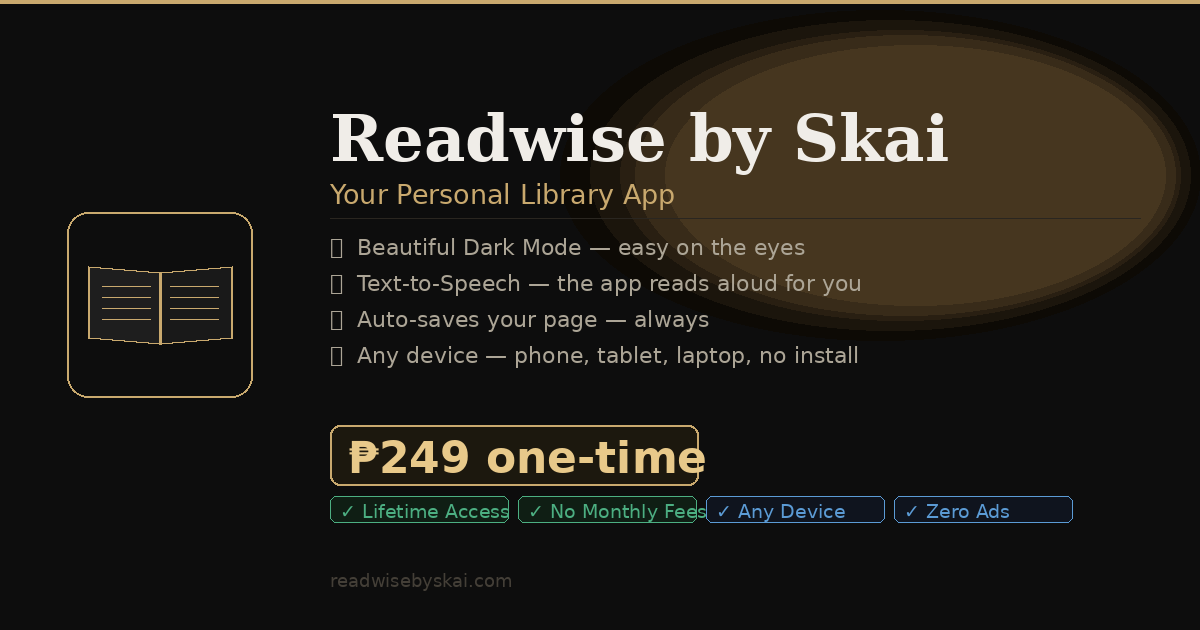
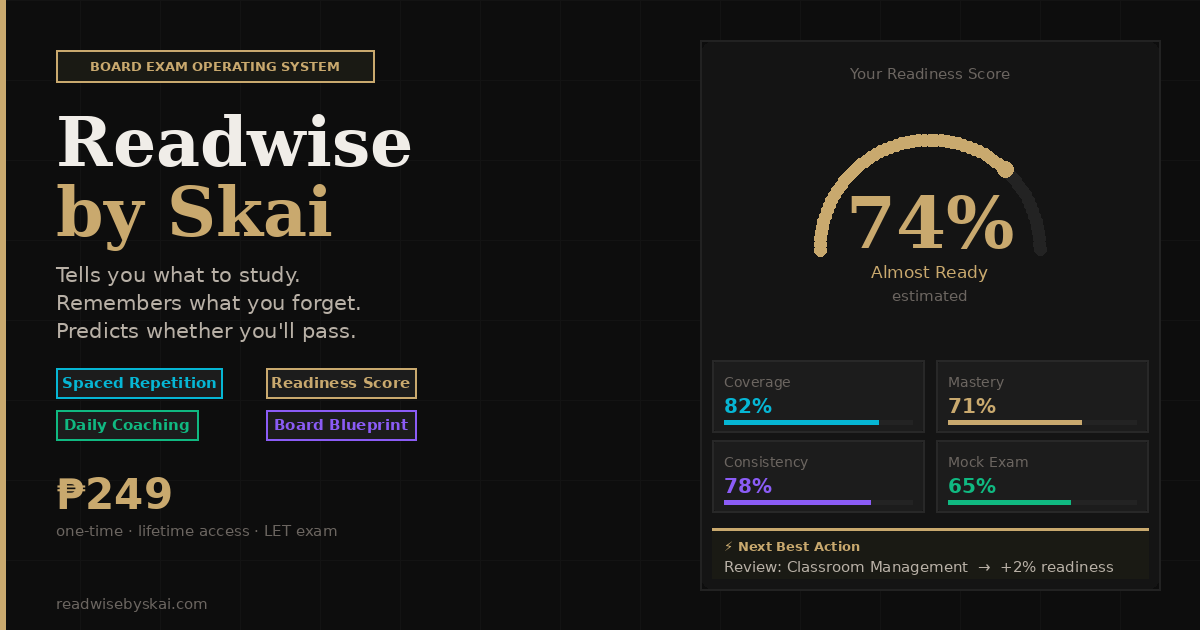
fix OG image + meta tags - board exam product

diff --git a/index.html b/index.html
@@ -3,15 +3,15 @@
   <head>
     <meta charset="UTF-8" />
     <meta name="viewport" content="width=device-width, initial-scale=1.0" />
-    <meta name="theme-color" content="#0f0f0f" />
-    <meta name="description" content="Readwise by Skai — Your personal reading space. Upload your own books + growing library of classics. Dark mode, TTS, lifetime access for ₱249." />
-    <title>Readwise by Skai — Your Personal Reading Space</title>
+    <meta name="theme-color" content="#0d0d0d" />
+    <meta name="description" content="Readwise by Skai — Board Exam Operating System. Tells you what to study, remembers what you forget, predicts whether you'll pass. Spaced repetition + Readiness Score + Daily Coaching. ₱249 one-time. LET, NLE, CPA, Bar." />
+    <title>Readwise by Skai — Board Exam Operating System</title>
 
     <!-- Open Graph / Facebook -->
     <meta property="og:type" content="website" />
     <meta property="og:url" content="https://readwisebyskai.com/" />
-    <meta property="og:title" content="Readwise by Skai — Your Personal Reading Space" />
-    <meta property="og:description" content="Upload your own books and read them beautifully — plus a growing library of classics. Dark mode, TTS, auto-saves your page. ₱249 one-time lifetime access." />
+    <meta property="og:title" content="Readwise by Skai — Pass Your Board Exam" />
+    <meta property="og:description" content="Tells you what to study. Remembers what you forget. Predicts whether you'll pass. Spaced repetition + Readiness Score + Daily Coaching. ₱249 one-time lifetime access." />
     <meta property="og:image" content="https://readwisebyskai.com/og-image.png" />
     <meta property="og:image:width" content="1200" />
     <meta property="og:image:height" content="630" />
@@ -20,9 +20,14 @@
 
     <!-- Twitter / X -->
     <meta name="twitter:card" content="summary_large_image" />
-    <meta name="twitter:title" content="Readwise by Skai — Your Personal Reading Space" />
-    <meta name="twitter:description" content="Upload your own books + growing library of classics. Dark mode, TTS. ₱249 lifetime." />
+    <meta name="twitter:title" content="Readwise by Skai — Pass Your Board Exam" />
+    <meta name="twitter:description" content="Tells you what to study. Remembers what you forget. Predicts whether you'll pass. ₱249 one-time lifetime access." />
     <meta name="twitter:image" content="https://readwisebyskai.com/og-image.png" />
+
+    <!-- SEO keywords -->
+    <meta name="keywords" content="LET reviewer, board exam reviewer Philippines, LET 2025, NLE reviewer, CPA board reviewer, spaced repetition, board exam app, licensure exam, PRC board exam" />
+    <meta name="author" content="Readwise by Skai" />
+    <meta name="robots" content="index, follow" />
 
     <!-- PWA -->
     <link rel="icon" type="image/png" href="/icon-192.png" />